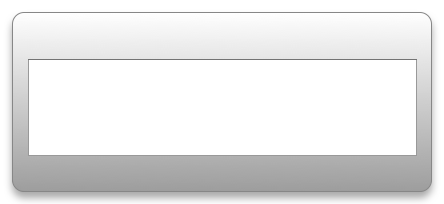
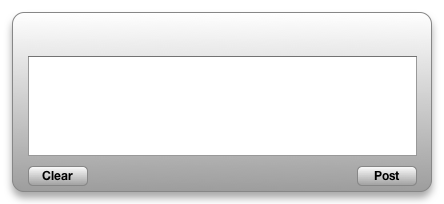
setting up the widget

Changed region(s): [[0.0586, 0.2647, 0.9369, 0.2941], [0.0586, 0.7941, 0.205, 0.9118], [0.7905, 0.7941, 0.9369, 0.9118]]

diff --git a/Pingfm Widget.dcproj/project.wdgt/main.html b/Pingfm Widget.dcproj/project.wdgt/main.html
@@ -13,18 +13,25 @@
     <script type="text/javascript" src="Parts/InfoButton.js" charset="utf-8"></script>
     <script type="text/javascript" src="Parts/GlassButton.js" charset="utf-8"></script>
     <script type="text/javascript" src="main.js" charset="utf-8"></script>
+    <script type="text/javascript" src="Parts/Button.js" charset="utf-8"></script>
 </head>
 <body onload="load();" apple-part="com.apple.Dashcode.part.StackLayout">
     <div id="front">
         <img id="frontImg" src="Images/front.png" alt="" apple-locked="true" apple-part="com.apple.Dashcode.part.frontimage" apple-style="image-theme: 1; image-shape: 3; image-opacity: 1.00; image-top-color: 1.0000,1.0000,1.0000; image-bottom-color: 0.6154,0.6154,0.6154; image-radius: 12,12,12,12; image-border: 1; image-border-color: 0.5294,0.5294,0.5294; image-border-width: 1; shine-strength: 0.9; shine-alpha-level: 0.67; shine-height: 0.50; glass-arc-height: 0.06; shadow-include-shadow: 1; shadow-blur: 9.00; shadow-offset: -1.00,-6.00; shadow-color: 0.0000,0.0000,0.0000,0.3333;">
         <div class="apple-no-children" id="info" apple-part="com.apple.Dashcode.part.infobutton" apple-default-image-visibility="hidden"></div>
-        <div apple-part="com.apple.Dashcode.part.text" class="apple-text apple-no-children" apple-default-image-visibility="hidden" apple-text-overflow="ellipsis" id="text"></div>
-        <textarea apple-part="com.apple.Dashcode.part.textarea" id="messageTextArea"></textarea>
+        <div apple-part="com.apple.Dashcode.part.text" class="apple-text apple-no-children" apple-default-image-visibility="hidden" apple-text-overflow="ellipsis" id="frontHeader"></div>
+        <textarea apple-part="com.apple.Dashcode.part.textarea" id="messageTextArea" onkeyup="messageTextAreaCounter(event)"></textarea>
+        <div apple-part="com.apple.Dashcode.part.roundedtextbutton" class="apple-no-children" apple-style="image-theme: 1; image-shape: 3; image-button-type: 0; image-opacity: 1.00; image-top-color: 1,1,1,1; image-bottom-color: 0.615400016,0.615400016,0.615400016,1; image-radius: 5,5,5,5; image-border: 1; image-border-color: 0.529399991,0.529399991,0.529399991,1; image-border-width: 1; shine-strength: 0.90; shine-alpha-level: 0.67; shine-height: 0.50; glass-arc-height: 0.06; shadow-include-shadow: 0;" id="postButton"></div>
+        <div apple-part="com.apple.Dashcode.part.roundedtextbutton" class="apple-no-children" apple-style="image-theme: 1; image-shape: 3; image-button-type: 0; image-opacity: 1.00; image-top-color: 1,1,1,1; image-bottom-color: 0.615400016,0.615400016,0.615400016,1; image-radius: 5,5,5,5; image-border: 1; image-border-color: 0.529399991,0.529399991,0.529399991,1; image-border-width: 1; shine-strength: 0.90; shine-alpha-level: 0.67; shine-height: 0.50; glass-arc-height: 0.06; shadow-include-shadow: 0;" id="clearButton"></div>
+        <div apple-part="com.apple.Dashcode.part.text" class="apple-text apple-no-children" apple-default-image-visibility="hidden" apple-text-overflow="ellipsis" id="charactersLabel"></div>
+        <div apple-part="com.apple.Dashcode.part.text" class="apple-text apple-no-children" apple-default-image-visibility="hidden" apple-text-overflow="ellipsis" id="characterCount"></div>
     </div>
     <div id="back">
         <img id="backImg" src="Images/back.png" alt="" apple-locked="true" apple-part="com.apple.Dashcode.part.backimage" apple-style=" image-radius: 12,12,12,12; image-border: 1; image-border-color: 0.1500,0.1500,0.1500; image-border-width: 3; shadow-include-shadow: 1; shadow-blur: 9.00; shadow-offset: -1.00,-6.00; shadow-color: 0.0000,0.0000,0.0000,0.3333;">
-        <img src="Images/DevelopedWith.png" alt="Created with Dashcode" id="backDevelopedWith">
         <div id="done" class="apple-no-children" apple-part="com.apple.Dashcode.part.glassbutton"></div>
+        <div apple-part="com.apple.Dashcode.part.text" class="apple-text apple-no-children" apple-default-image-visibility="hidden" apple-text-overflow="ellipsis" id="userKeyLabel"></div>
+        <input type="text" name="" value="" class="apple-textfield apple-no-children" apple-part="com.apple.Dashcode.part.textfield" id="userKeyTextArea">
+        <div apple-part="com.apple.Dashcode.part.glassbutton" class="apple-no-children" id="keyLinkButton"></div>
     </div>
 </body>
 </html>

diff --git a/Pingfm Widget.dcproj/project.wdgt/main.css b/Pingfm Widget.dcproj/project.wdgt/main.css
@@ -13,9 +13,9 @@ body {
     display: block;
     top: 0px;
     left: 0px;
-    bottom: 0px;
     right: 0px;
     width: auto;
+    bottom: 0px;
     height: auto;
 }
 
@@ -25,6 +25,9 @@ body {
     bottom: 18px;
     width: 13px;
     height: 13px;
+    opacity: 1;
+    top: 28px;
+    left: 404px;
 }
 
 #back {
@@ -50,17 +53,75 @@ body {
     margin-top: auto;
 }
 
-#backDevelopedWith {
+#messageTextArea {
+    color: black;
+    font-family: HelveticaNeue;
+    font-size: 10pt;
     position: absolute;
-    top: 67px;
-    left: 65px;
-    width: 150px;
-    height: 49px;
-    margin-left: auto;
-    margin-right: auto;
+    right: auto;
+    bottom: auto;
+    margin-top: 0px;
+    left: 28px;
+    width: 387px;
+    height: 98px;
+    top: 56px;
 }
 
-#text {
+#postButton {
+    font-family: HelveticaNeue-Bold;
+    font-size: 12px;
+    text-align: center;
+    width: 60px;
+    position: absolute;
+    right: auto;
+    margin-top: 0px;
+    top: 166px;
+    left: 357px;
+    bottom: 18px;
+    height: auto;
+}
+
+#clearButton {
+    font-family: HelveticaNeue-Bold;
+    font-size: 12px;
+    text-align: center;
+    width: 60px;
+    position: absolute;
+    right: auto;
+    margin-top: 0px;
+    top: 166px;
+    left: 28px;
+    bottom: 18px;
+    height: auto;
+}
+
+#userKeyTextArea {
+    position: absolute;
+    color: black;
+    font-family: HelveticaNeue;
+    font-size: 10pt;
+    left: 19px;
+    width: 398px;
+    top: 42px;
+}
+
+#userKeyLabel {
+    text-overflow: ellipsis;
+    overflow: hidden;
+    position: absolute;
+    margin-top: 0px;
+    color: rgb(255, 255, 255);
+    font-family: 'Helvetica Neue';
+    font-size: 11pt;
+    left: 166px;
+    top: 19px;
+    right: 168px;
+    width: auto;
+    bottom: 162px;
+    height: auto;
+}
+
+#frontHeader {
     color: black;
     text-overflow: ellipsis;
     overflow: hidden;
@@ -76,16 +137,46 @@ body {
     height: auto;
 }
 
-#messageTextArea {
+#charactersLabel {
     color: black;
-    font-family: HelveticaNeue;
-    font-size: 10pt;
+    text-overflow: ellipsis;
+    overflow: hidden;
+    position: absolute;
+    margin-top: 0px;
+    font-size: 11pt;
+    font-weight: bold;
+    font-family: 'Helvetica Neue';
+    left: 155px;
+    top: 166px;
+    right: 204px;
+    width: auto;
+    bottom: 20px;
+    height: auto;
+}
+
+#characterCount {
+    color: black;
+    text-overflow: ellipsis;
+    overflow: hidden;
+    position: absolute;
+    margin-top: 0px;
+    font-weight: bold;
+    font-family: 'Helvetica Neue';
+    font-size: 11pt;
+    text-align: center;
+    left: 250px;
+    top: 166px;
+    right: 155px;
+    width: auto;
+    bottom: 20px;
+    height: auto;
+}
+
+#keyLinkButton {
     position: absolute;
     right: auto;
     bottom: auto;
     margin-top: 0px;
-    left: 28px;
-    width: 387px;
-    height: 95px;
-    top: 59px;
+    left: 166px;
+    top: 90px;
 }

diff --git a/Pingfm Widget.dcproj/project.wdgt/Parts/Button.js b/Pingfm Widget.dcproj/project.wdgt/Parts/Button.js
@@ -1,0 +1,46 @@
+/* 
+ This file was generated by Dashcode and is covered by the 
+ license.txt included in the project.  You may edit this file, 
+ however it is recommended to first turn off the Dashcode 
+ code generator otherwise the changes will be lost.
+ */
+
+function CreateButton(elementOrID, spec)
+{
+    var buttonElement = elementOrID;
+    if (elementOrID.nodeType != Node.ELEMENT_NODE) {
+        buttonElement = document.getElementById(elementOrID);
+    }
+    
+	if (!buttonElement.loaded) {
+		buttonElement.loaded = true;
+        while (buttonElement.firstChild) {
+            buttonElement.removeChild(buttonElement.firstChild);
+        }
+
+		var text = spec.text || '';
+		if (window.dashcode && dashcode.getLocalizedString) text = dashcode.getLocalizedString(text);
+
+		var leftImageWidth = spec.leftImageWidth || 0;
+		var rightImageWidth = spec.rightImageWidth || 0;
+        // when cloning template, get size from original
+        var styleElement = buttonElement;
+        if (spec.originalID) {
+            styleElement = document.getElementById(spec.originalID);
+        }
+		var imagePrefix = "Images/" + styleElement.id + "_";
+        var width = dashcode.getElementWidth(styleElement) || 20;
+		var height = dashcode.getElementHeight(styleElement) || 20;
+		
+		var onclick = spec.onclick || null;
+		try { onclick = eval(onclick); } catch (e) { onclick = null; }
+
+		buttonElement.object = new AppleButton(buttonElement, text, height, imagePrefix + "left.png", imagePrefix + "left_clicked.png", leftImageWidth, imagePrefix + "middle.png", imagePrefix + "middle_clicked.png", imagePrefix + "right.png", imagePrefix + "right_clicked.png", rightImageWidth, onclick);
+        buttonElement.object.element = buttonElement;
+		buttonElement.object._container.childNodes.item(2).style.width = rightImageWidth + "px";
+		buttonElement.object.setEnabled(!spec.disabled);
+		buttonElement.object.textElement.style.width = (width - (leftImageWidth + rightImageWidth)) + "px";
+	}
+
+	return buttonElement.object;
+}

diff --git a/Pingfm Widget.dcproj/project.wdgt/main.js b/Pingfm Widget.dcproj/project.wdgt/main.js
@@ -4,6 +4,9 @@
  according to the license.txt file included in the project.
  */
 
+// Ping.fm application API key.
+const API_KEY = '4217564672bbb9e35396f53d79e0e114';
+
 //
 // Function: load()
 // Called by HTML body element's onload event when the widget is ready to start
@@ -107,4 +110,51 @@ if (window.widget) {
     widget.onhide = hide;
     widget.onshow = show;
     widget.onsync = sync;
+}
+
+
+function clearButtonOnClick(event)
+{
+    clearTextArea('messageTextArea');
+    updateCharacterCount();
+}
+
+function clearTextArea(id)
+{
+    var textArea = document.getElementById(id);
+    if (textArea)
+        textArea.value = '';
+}
+
+function messageTextAreaCounter(event)
+{
+    updateCharacterCount();
+}
+
+function updateCharacterCount()
+{
+    var textArea  = document.getElementById('messageTextArea');
+    var charCount = textArea.value.length;
+    var status    = document.getElementById('characterCount');
+    status.innerHTML = charCount;
+
+    if (charCount >= 140) status.style.color = 'red';
+    else status.style.color = 'black';
+}
+
+function openPingfmKeyPage(event)
+{
+    var url = 'http://ping.fm/key/';
+    widget.openURL(url);
+}
+
+
+function postButtonOnClick(event)
+{
+    var message = document.getElementById('messageTextArea').value;
+    if (message) postToPingfm(message);
+}
+
+function postToPingfm(message)
+{
 }

diff --git a/Pingfm Widget.dcproj/project.wdgt/Parts/setup.js b/Pingfm Widget.dcproj/project.wdgt/Parts/setup.js
@@ -5,7 +5,13 @@
  code generator otherwise the changes will be lost.
  */
 var dashcodePartSpecs = {
+    "characterCount": { "creationFunction": "CreateText", "text": "0" },
+    "charactersLabel": { "creationFunction": "CreateText", "text": "Characters:" },
+    "clearButton": { "creationFunction": "CreateButton", "leftImageWidth": 5, "onclick": "clearButtonOnClick", "rightImageWidth": 5, "text": "Clear" },
     "done": { "creationFunction": "CreateGlassButton", "onclick": "showFront", "text": "Done" },
-    "info": { "backgroundStyle": "black", "creationFunction": "CreateInfoButton", "foregroundStyle": "white", "frontID": "front", "onclick": "showBack" },
-    "text": { "creationFunction": "CreateText", "text": "Post to Ping.fm:" }
+    "frontHeader": { "creationFunction": "CreateText", "text": "Post to Ping.fm:" },
+    "info": { "backgroundStyle": "white", "creationFunction": "CreateInfoButton", "foregroundStyle": "black", "frontID": "front", "onclick": "showBack" },
+    "keyLinkButton": { "creationFunction": "CreateGlassButton", "onclick": "openPingfmKeyPage", "text": "What is my key?" },
+    "postButton": { "creationFunction": "CreateButton", "leftImageWidth": 5, "onclick": "postButtonOnClick", "rightImageWidth": 5, "text": "Post" },
+    "userKeyLabel": { "creationFunction": "CreateText", "text": "Application Key:" }
 };
